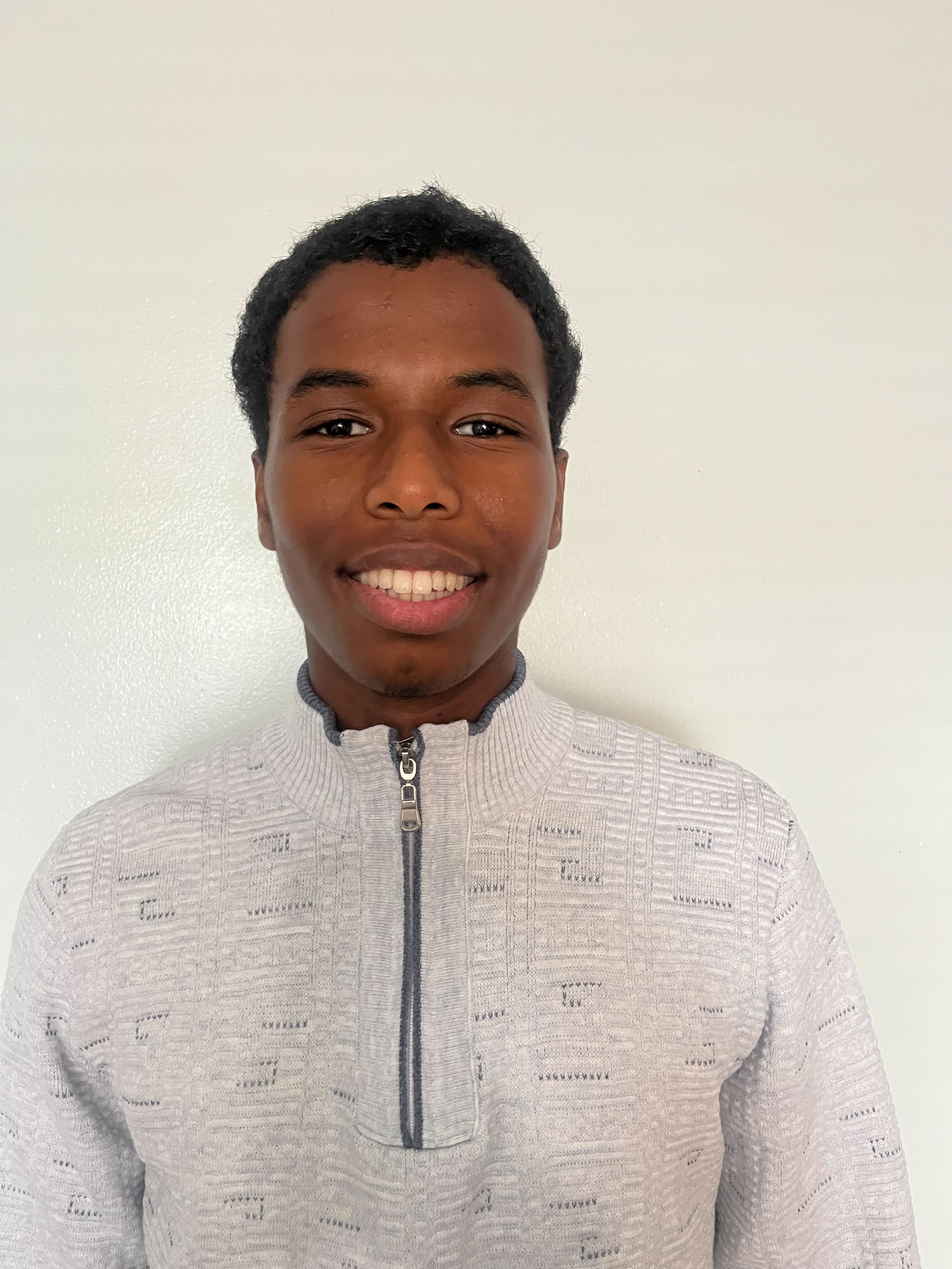
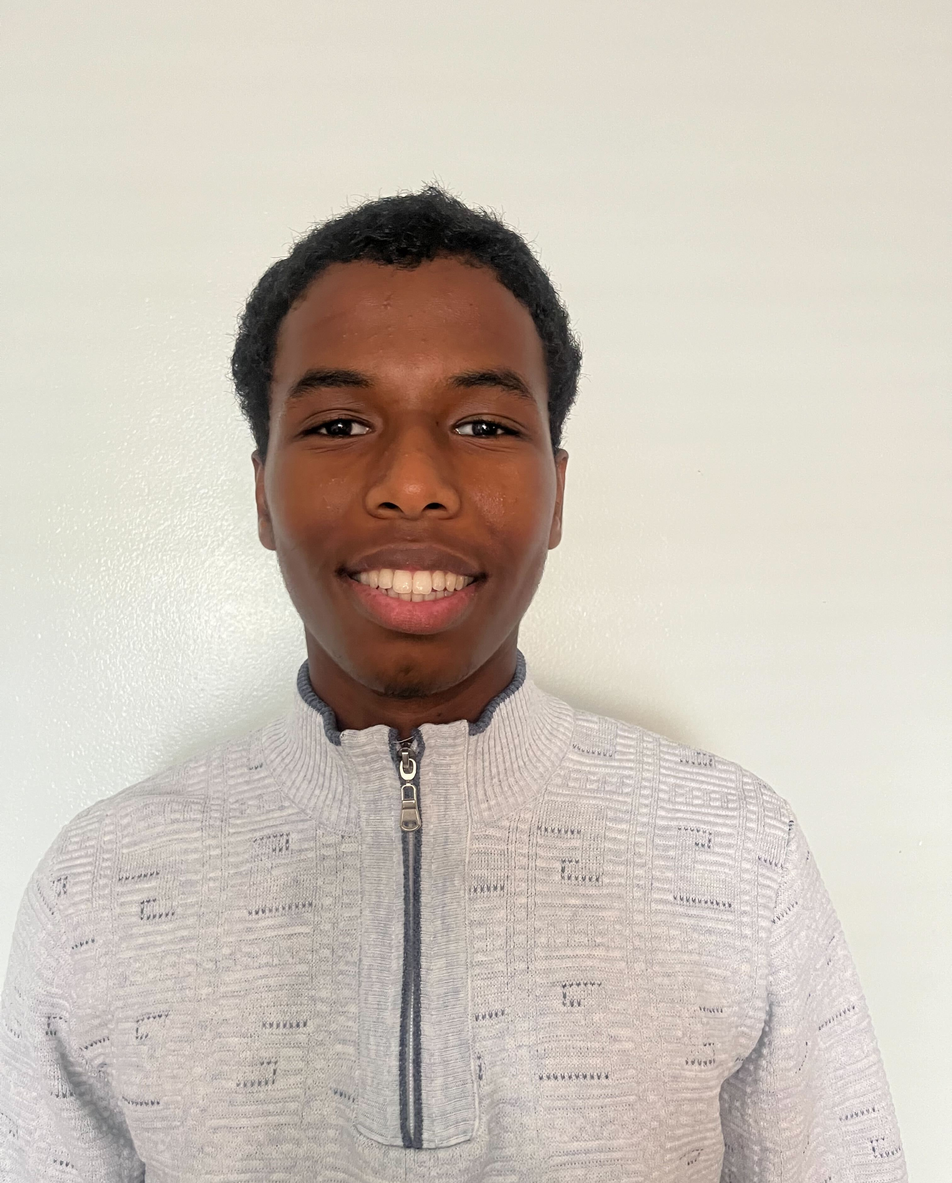
headshots now look even

Changed region(s): [[0.0, 0.1245, 0.9636, 1.0], [0.8704, 0.7781, 0.9015, 0.8093]]

diff --git a/src/main/webapp/css/style.css b/src/main/webapp/css/style.css
@@ -77,8 +77,8 @@ section {
 }
 
 .headshot {
-  max-width: 105px;
-  height: auto;
+  width: 105px;
+  height: 130px;
   margin-bottom: 10px;
 }
 
